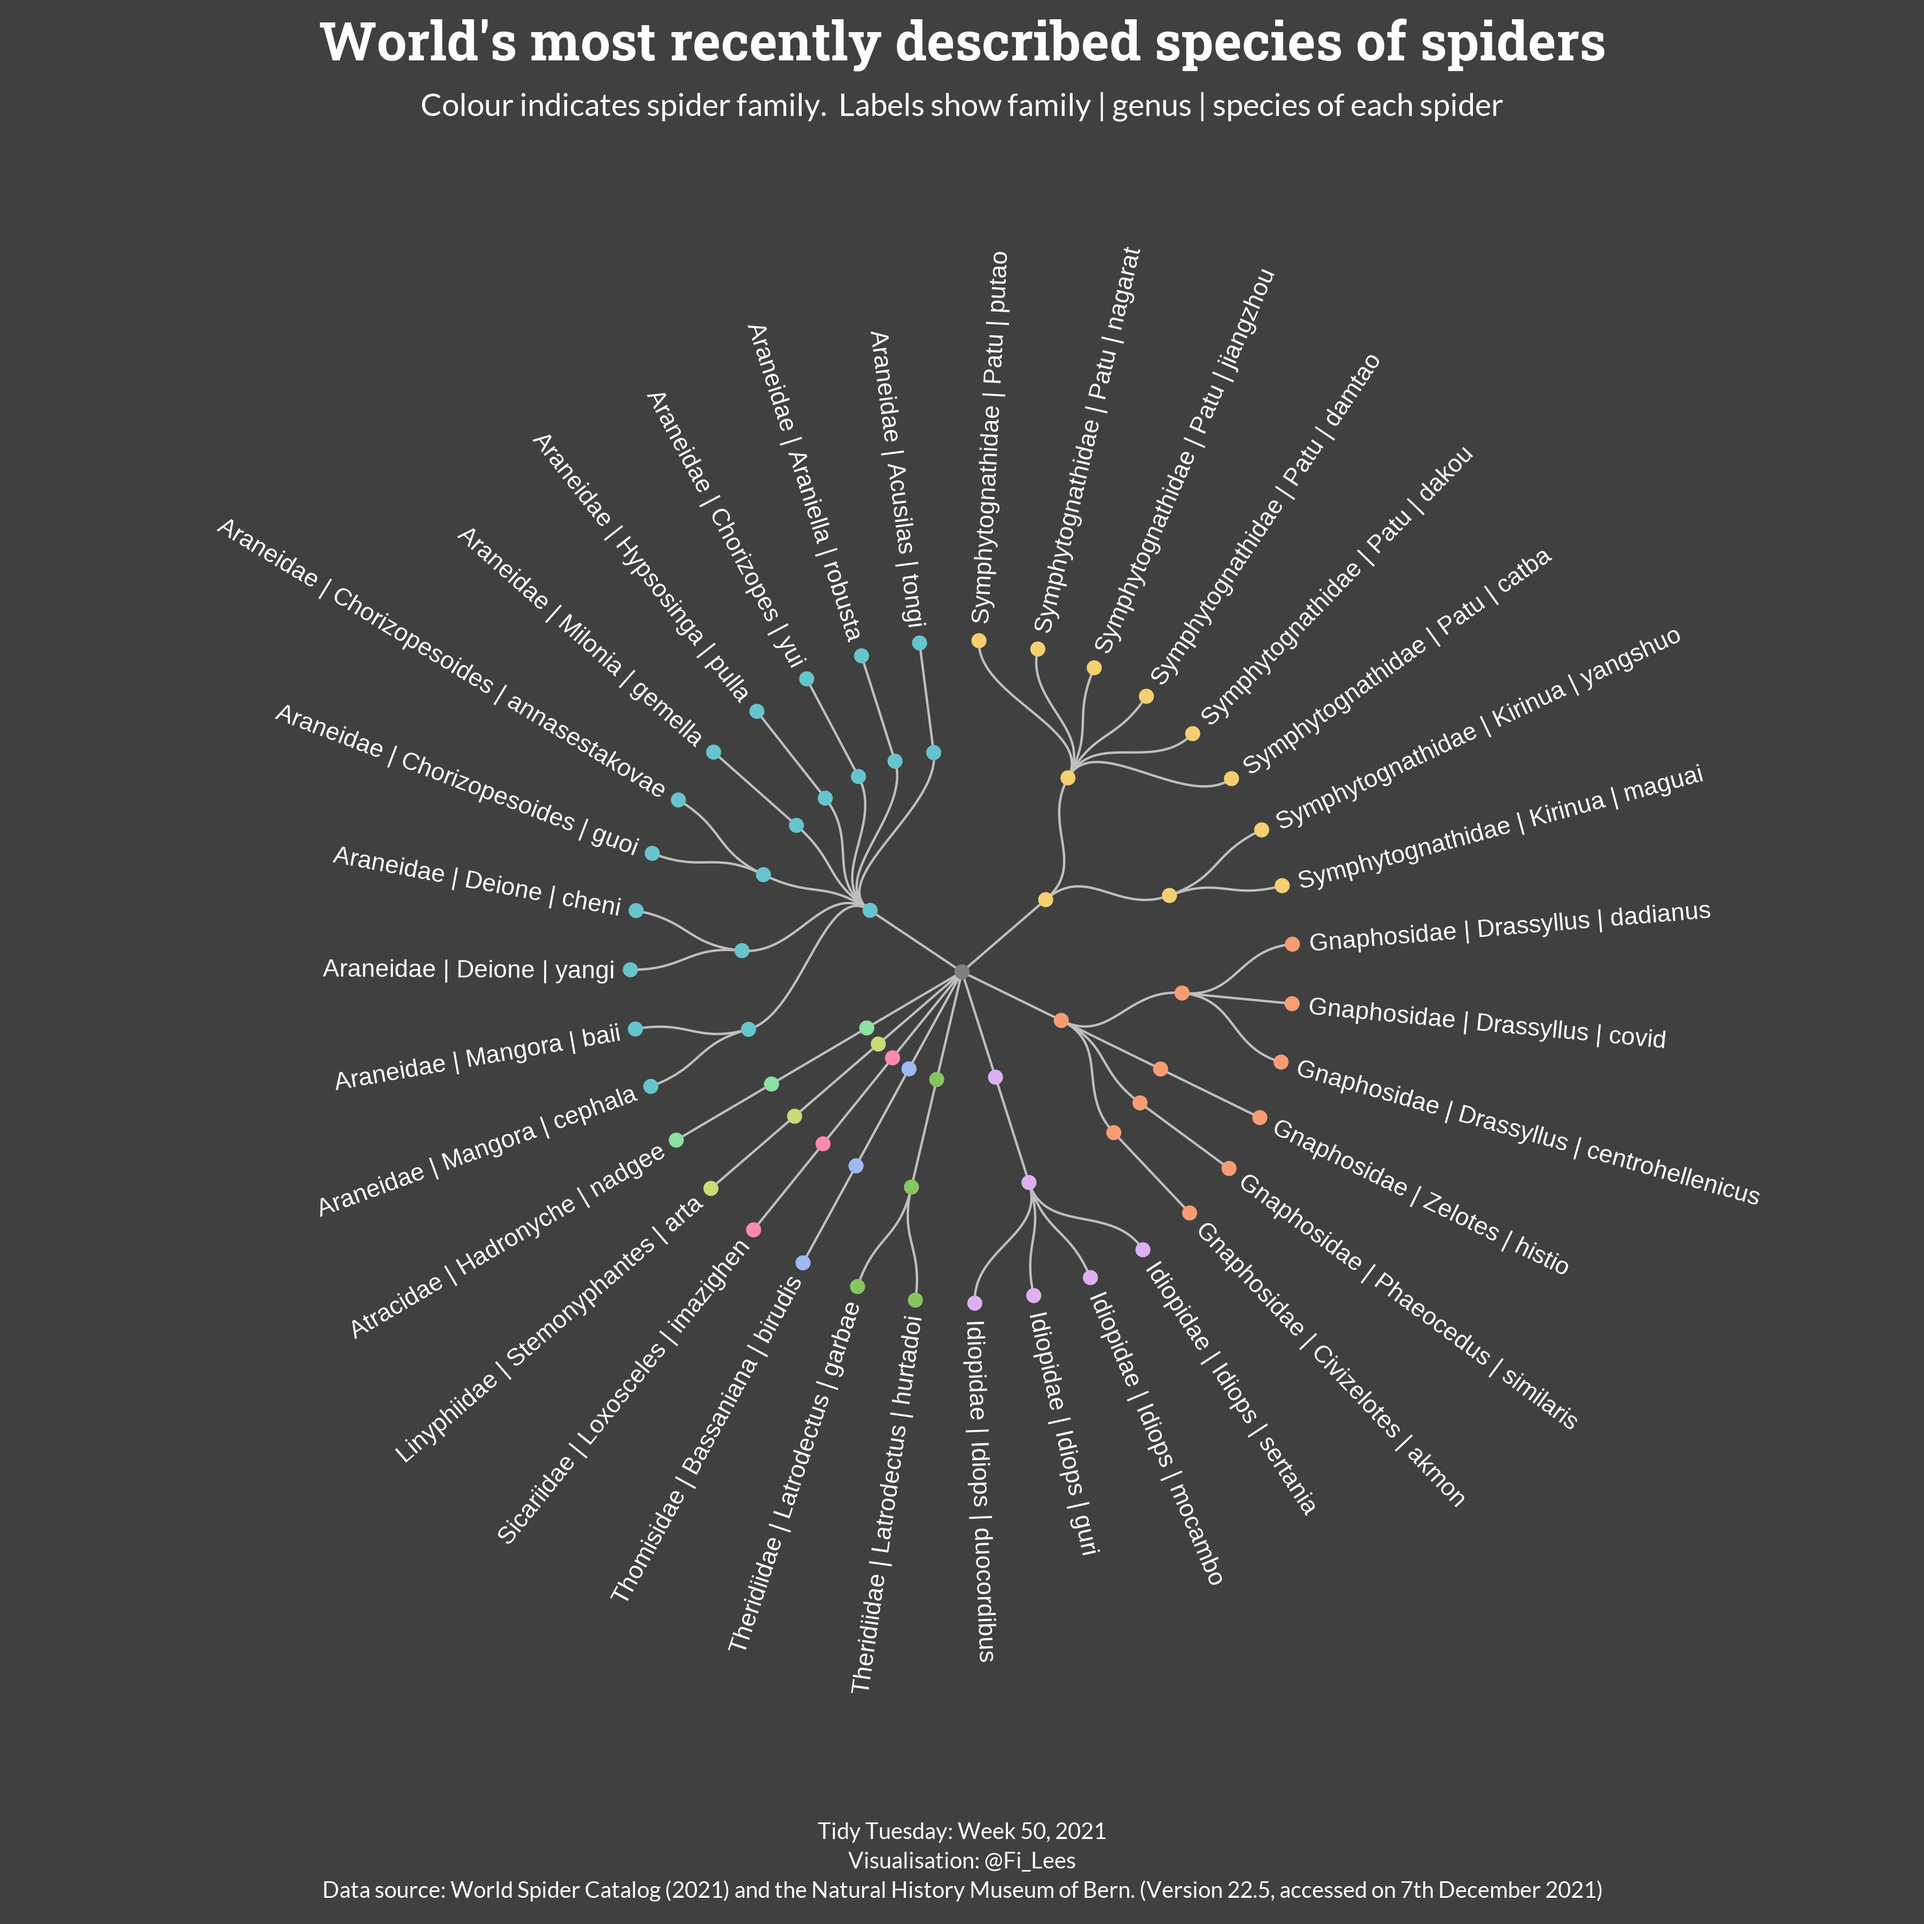
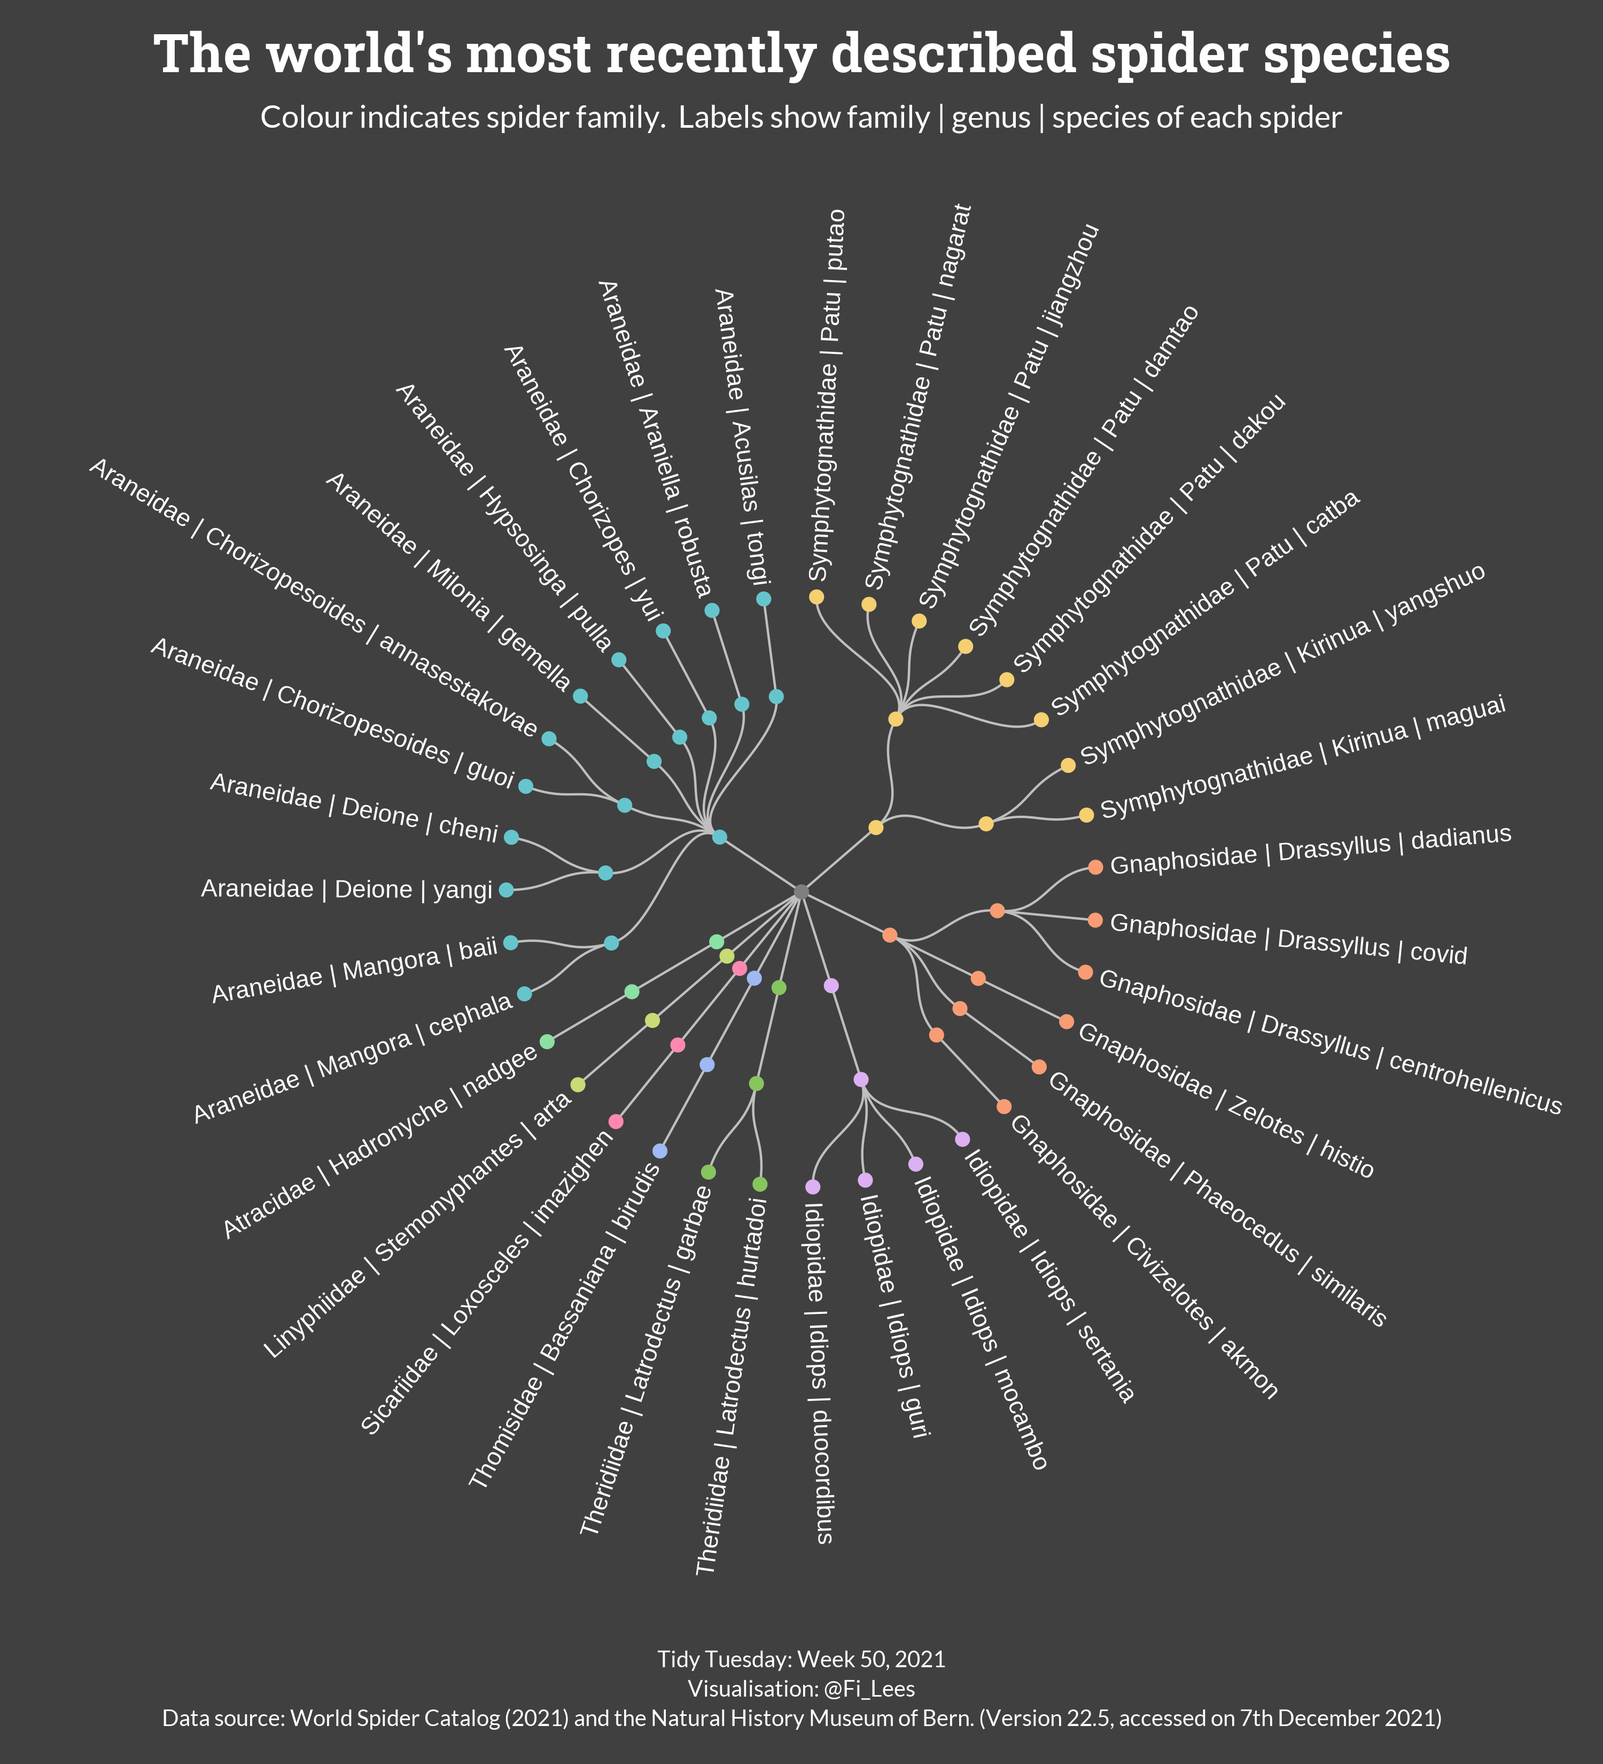
Minor change to title text

diff --git a/2021/TT_2021_W50_Spiders/README.md b/2021/TT_2021_W50_Spiders/README.md
@@ -39,34 +39,23 @@ Let's have a quick look at the data.
 
 
 ```r
-#view(spiders)
+view(spiders)
 
-summary(spiders)
+knitr::kable(
+  summary(spiders)
+)
 ```
 
-```
-##    speciesId     species_lsid          family             genus          
-##  Min.   :    1   Length:49785       Length:49785       Length:49785      
-##  1st Qu.:12857   Class :character   Class :character   Class :character  
-##  Median :25587   Mode  :character   Mode  :character   Mode  :character  
-##  Mean   :26766                                                           
-##  3rd Qu.:38579                                                           
-##  Max.   :59774                                                           
-##    species           subspecies           author               year     
-##  Length:49785       Length:49785       Length:49785       Min.   :1757  
-##  Class :character   Class :character   Class :character   1st Qu.:1910  
-##  Mode  :character   Mode  :character   Mode  :character   Median :1978  
-##                                                           Mean   :1959  
-##                                                           3rd Qu.:2006  
-##                                                           Max.   :2021  
-##   parentheses     distribution      
-##  Min.   :0.0000   Length:49785      
-##  1st Qu.:0.0000   Class :character  
-##  Median :0.0000   Mode  :character  
-##  Mean   :0.2707                     
-##  3rd Qu.:1.0000                     
-##  Max.   :1.0000
-```
+
+
+|   |  speciesId   |species_lsid     |   family        |   genus         |  species        | subspecies      |   author        |     year    | parentheses   |distribution     |
+|:--|:-------------|:----------------|:----------------|:----------------|:----------------|:----------------|:----------------|:------------|:--------------|:----------------|
+|   |Min.   :    1 |Length:49785     |Length:49785     |Length:49785     |Length:49785     |Length:49785     |Length:49785     |Min.   :1757 |Min.   :0.0000 |Length:49785     |
+|   |1st Qu.:12857 |Class :character |Class :character |Class :character |Class :character |Class :character |Class :character |1st Qu.:1910 |1st Qu.:0.0000 |Class :character |
+|   |Median :25587 |Mode  :character |Mode  :character |Mode  :character |Mode  :character |Mode  :character |Mode  :character |Median :1978 |Median :0.0000 |Mode  :character |
+|   |Mean   :26766 |NA               |NA               |NA               |NA               |NA               |NA               |Mean   :1959 |Mean   :0.2707 |NA               |
+|   |3rd Qu.:38579 |NA               |NA               |NA               |NA               |NA               |NA               |3rd Qu.:2006 |3rd Qu.:1.0000 |NA               |
+|   |Max.   :59774 |NA               |NA               |NA               |NA               |NA               |NA               |Max.   :2021 |Max.   :1.0000 |NA               |
 
 
 ### Explore Data
@@ -257,7 +246,7 @@ ggraph(nested_edge_list, layout = 'dendrogram', circular = FALSE) +
     ) +
   # Titles
   labs(
-      title = "The world's most recently described species of spiders",
+      title = "The world's most recently described spider species",
       subtitle = "Family | Genus | species"
       )
 ```
@@ -327,7 +316,7 @@ p_final <- ggraph(nested_edge_list, layout = 'dendrogram', circular = TRUE) +
     legend.position = "none"
   ) +
   # Titles
-  labs(title = "World's most recently described species of spiders",
+  labs(title = "The world's most recently described spider species",
        subtitle = "Colour indicates spider family.  Labels show family | genus | species of each spider",
        caption = "Tidy Tuesday: Week 50, 2021\nVisualisation: @Fi_Lees\nData source: World Spider Catalog (2021) and the Natural History Museum of Bern. (Version 22.5, accessed on 7th December 2021)"
        )
@@ -345,7 +334,7 @@ Save the plot as an image.
 showtext_opts(dpi = 300)
 
 # Save plot as image
-ggsave("recent_spiders.png", p_final, width = 12, height = 12, units = "in", dpi = 300)
+ggsave("recent_spiders.png", p_final, width = 10, height = 11, units = "in", dpi = 300)
 
 # Turn off showtext
 showtext_auto(FALSE)
